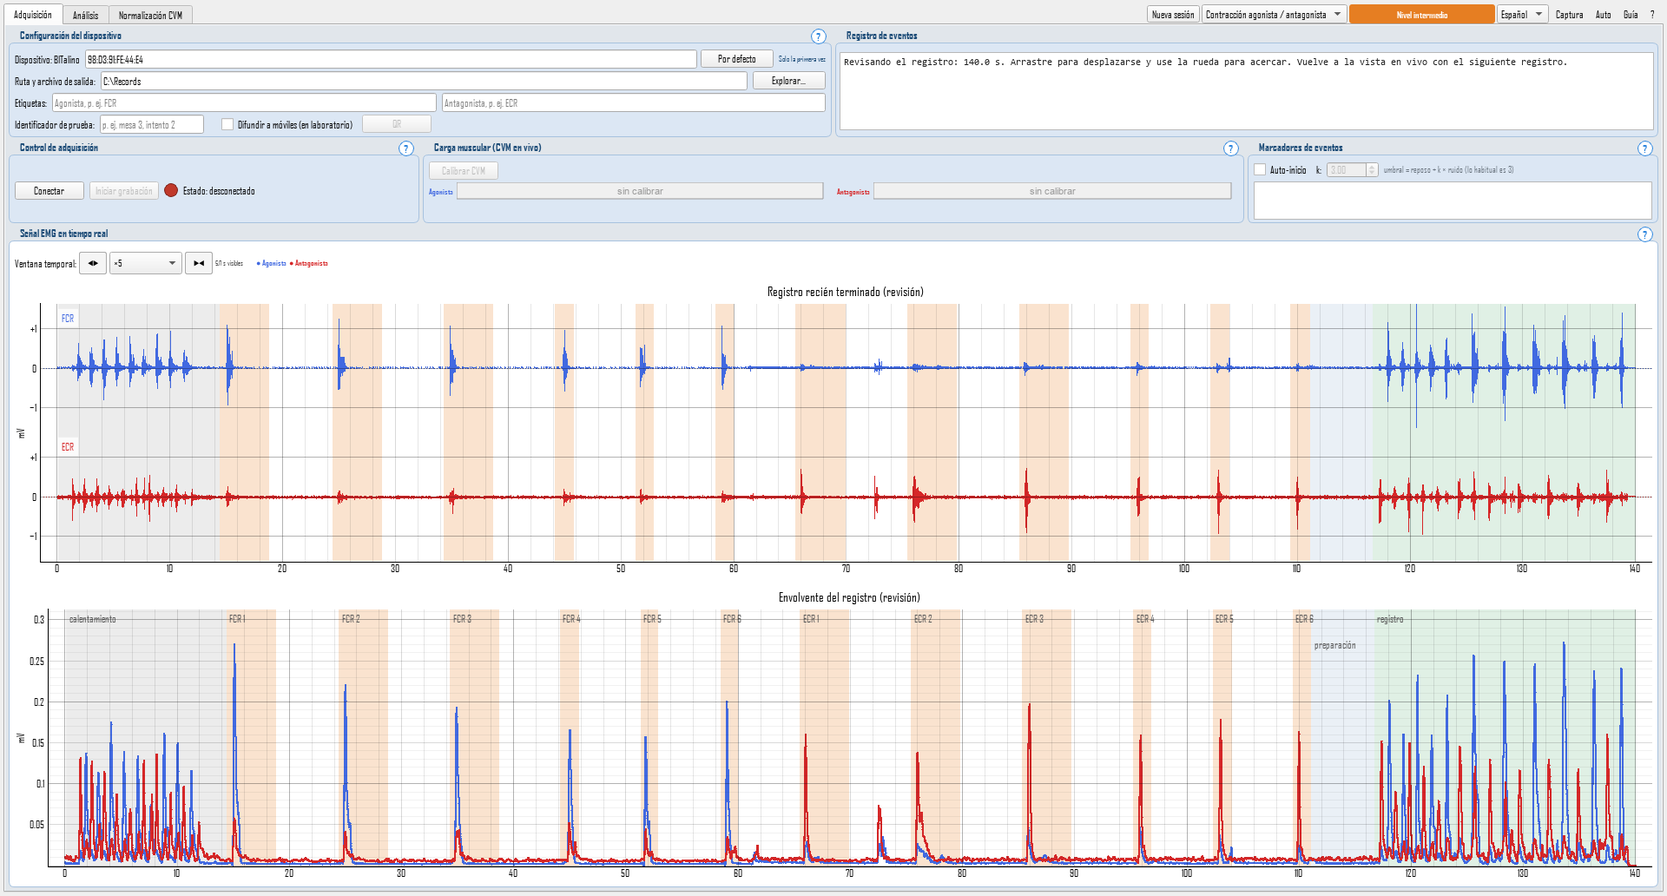
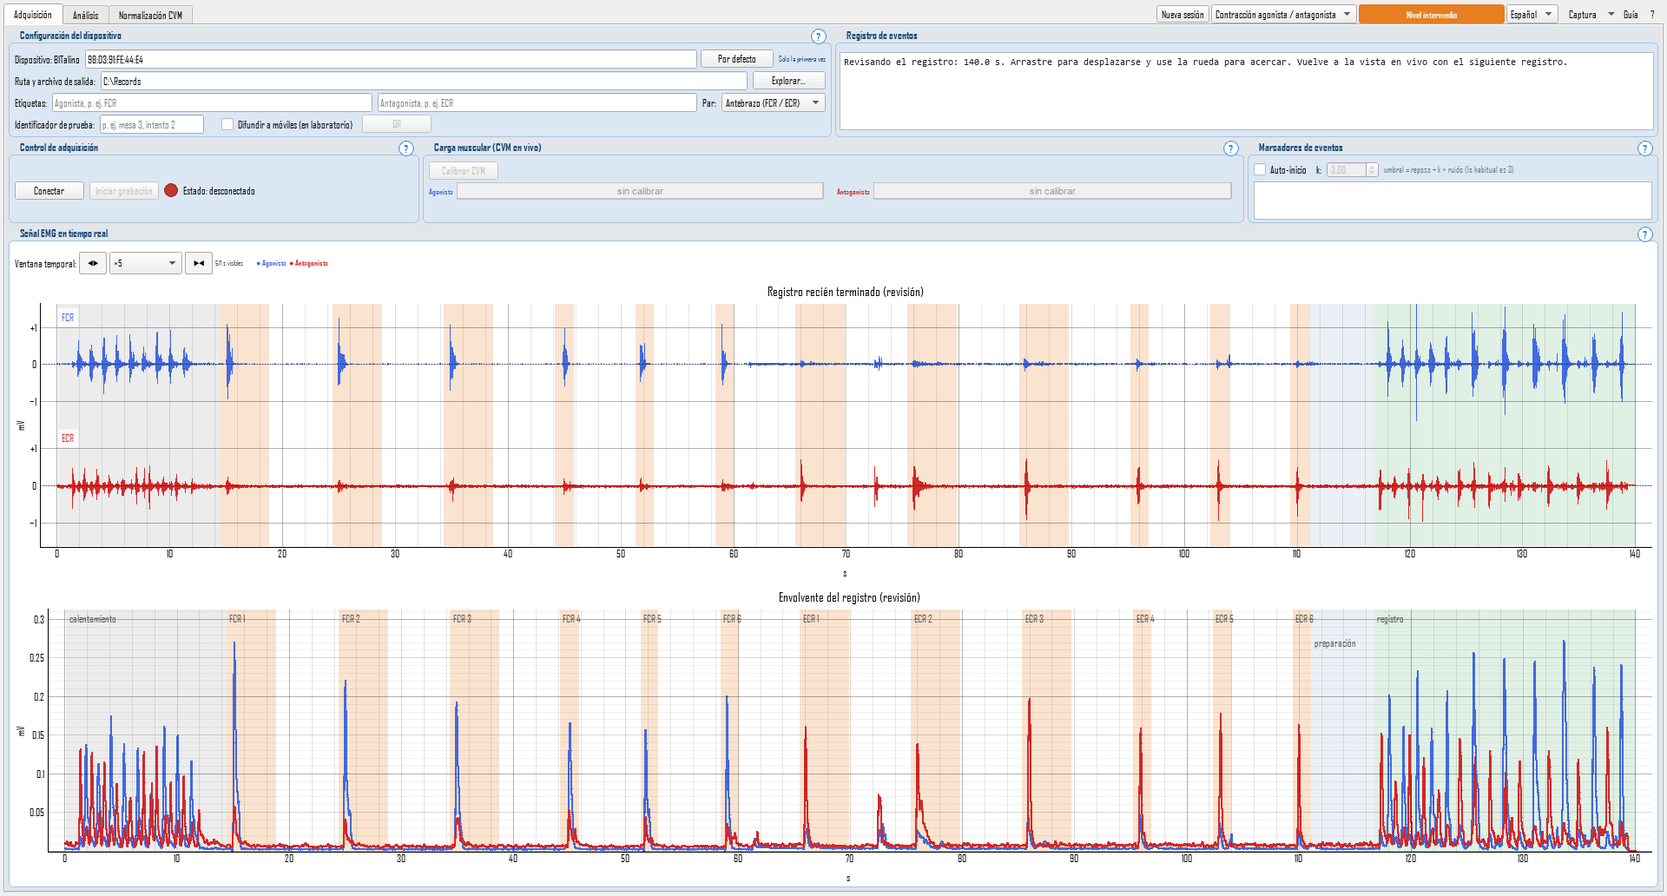
3.7.0: the version DOI, and the report describes it
CITATION.cff carries the version-specific DOI of 3.7.0
(10.5281/zenodo.22976106), with 3.6.0's moved into the history line.

The status report describes 3.7.0:
- the table of section 1: version, DOI, tag commit 34294b4 and 1376
  tests, with 3.6.0 moved to the earlier versions;
- a new section 1.0, what changed from 3.6.0 (the guided session into
  the task, the editor's rows to rest and one per marked lift, the pair,
  the olecranon reference, the connection), and what the material
  regenerated on the tag does and does not change;
- the release now carries the attested Windows executable (sections 1
  and 1.12, with its SHA-256 and what VirusTotal said);
- the pair's flow in section 3, the time to REC start in section 8.4 as
  measured in the 3.7.0 recordings, and limitation 9.

The earlier version sections shift down by one and every
cross-reference with them; the one that sent 3.4.0 to 3.5.0's section
now points at its own. The generated blocks are regenerated, and so is
the internal material, from the tag: the example CSV and PDF change only
in their version, footer and protocol line.

diff --git a/docs/INFORME-estado-para-Sourcebook.md b/docs/INFORME-estado-para-Sourcebook.md
@@ -3,7 +3,7 @@
 Escrito el 5 de septiembre de 2026 sobre `main`, después de publicar la versión
 3.0.0, y actualizado a la **3.1.0**, a la **3.1.1** y a la **3.1.2** tras publicarlas, el 13 de
 septiembre, y a la **3.2.0**, a la **3.3.0** y a la **3.4.0** el 14 de septiembre, y a la
-**3.5.0** el 18 de septiembre y a la **3.6.0** el 19.
+**3.5.0** el 18 de septiembre, a la **3.6.0** el 19 y a la **3.7.0** el 26.
 Responde a `PETICION-a-code-informe-Sourcebook.md` sección por sección.
 
 Los textos de pantalla están **copiados literalmente** de
@@ -22,36 +22,96 @@ Donde algo no está hecho o no lo sé, lo dice.
 | | |
 |---|---|
 | Rama | `main` |
-| **Versión que describe el artículo** | `v3.6.0`, publicada el 19 de septiembre de 2026 |
-| DOI de esa versión | 10.5281/zenodo.22842108 |
+| **Versión que describe el artículo** | `v3.7.0`, publicada el 26 de septiembre de 2026 |
+| DOI de esa versión | 10.5281/zenodo.22976106 |
 | DOI de concepto | 10.5281/zenodo.21002297 |
-| Commit de la etiqueta | `6ab25d8` |
-| Pruebas en la etiqueta | **1217 recogidas, 1216 pasan y 1 se salta** |
-| Versiones anteriores | `v3.5.0` (10.5281/zenodo.22832544, etiqueta en `826c920`, 1205 pruebas) · `v3.4.0` (10.5281/zenodo.22756263, `b7a9183`, 1121 pruebas) · `v3.3.0` (10.5281/zenodo.22750425, `85d6875`, 1093 pruebas) · `v3.2.0` (10.5281/zenodo.22744748, `b5ad8b7`, 1081 pruebas) · `v3.1.2` (10.5281/zenodo.22736393, `8367f1f`, 1078 pruebas) · `v3.1.1` (10.5281/zenodo.22734612, `aeb580d`, 1074 pruebas) · `v3.1.0` (10.5281/zenodo.22733151, `927eeff`, 1064 pruebas) · `v3.0.0` (10.5281/zenodo.22365602, `155fb07`, 940 pruebas) |
+| Commit de la etiqueta | `34294b4` |
+| Pruebas en la etiqueta | **1376 recogidas, 1375 pasan y 1 se salta** |
+| Versiones anteriores | `v3.6.0` (10.5281/zenodo.22842108, etiqueta en `6ab25d8`, 1217 pruebas) · `v3.5.0` (10.5281/zenodo.22832544, etiqueta en `826c920`, 1205 pruebas) · `v3.4.0` (10.5281/zenodo.22756263, `b7a9183`, 1121 pruebas) · `v3.3.0` (10.5281/zenodo.22750425, `85d6875`, 1093 pruebas) · `v3.2.0` (10.5281/zenodo.22744748, `b5ad8b7`, 1081 pruebas) · `v3.1.2` (10.5281/zenodo.22736393, `8367f1f`, 1078 pruebas) · `v3.1.1` (10.5281/zenodo.22734612, `aeb580d`, 1074 pruebas) · `v3.1.0` (10.5281/zenodo.22733151, `927eeff`, 1064 pruebas) · `v3.0.0` (10.5281/zenodo.22365602, `155fb07`, 940 pruebas) |
 | Análisis estático | `ruff check .` limpio |
 
 Los bloques generados de este informe (apartados 4, 6 y 5.1, y el recorrido
 guiado) se leen del **código de `main` en el momento de generarlos**. En esta
-actualización `main` coincide con la etiqueta `v3.6.0` en todo `src/`: lo único
-que va detrás de la etiqueta es el DOI de versión de `CITATION.cff` y este
-informe. Así que lo que dicen los bloques es lo que hace la versión publicada.
-Lo que cambió de la 3.5.0 a la 3.6.0 está en el apartado 1.0, de la 3.4.0 a la
-3.5.0 en el 1.1, de la 3.3.0 a la 3.4.0 en el 1.2, de la 3.2.0 a la 3.3.0 en el
-1.3, de la 3.1.2 a la 3.2.0 en el 1.4, de la 3.1.1 a la 3.1.2 en el 1.5, de la
-3.1.0 a la 3.1.1 en el 1.6, y de la 3.0.0 a la 3.1.0 en el 1.7.
+actualización `main` coincide con la etiqueta `v3.7.0` en todo `src/`: lo único
+que va detrás de la etiqueta es el DOI de versión de `CITATION.cff`, este
+informe y el material regenerado. Así que lo que dicen los bloques es lo que
+hace la versión publicada. Lo que cambió de la 3.6.0 a la 3.7.0 está en el
+apartado 1.0, de la 3.5.0 a la 3.6.0 en el 1.1, de la 3.4.0 a la 3.5.0 en el
+1.2, de la 3.3.0 a la 3.4.0 en el 1.3, de la 3.2.0 a la 3.3.0 en el 1.4, de la
+3.1.2 a la 3.2.0 en el 1.5, de la 3.1.1 a la 3.1.2 en el 1.6, de la 3.1.0 a la
+3.1.1 en el 1.7, y de la 3.0.0 a la 3.1.0 en el 1.8.
 
 La prueba que se salta es `tests/test_gui_mvc_overlay.py:163`: con la
 tipografía de la plataforma de prueba el mensaje mide menos que el suelo del
 propio panel, así que no puede provocar el crecimiento que esa prueba vigila.
 
-La versión etiquetada para el depósito es **3.6.0**, y es la que describe el
-artículo. Las publicaciones de GitHub no llevan ejecutable de Windows ya
-compilado: un ejecutable de PyInstaller sin firmar hace saltar el antivirus al
-descargarlo (un falso positivo conocido), así que la versión se distribuye como
-código fuente (apartado 1.11). El ejecutable se sigue pudiendo compilar desde la
-etiqueta con la receta de `packaging/`.
+La versión etiquetada para el depósito es **3.7.0**, y es la que describe el
+artículo. **Su publicación de GitHub lleva el ejecutable de Windows**,
+`emgteach-v3.7.0-windows-x64.exe`, compilado por GitHub Actions desde la
+etiqueta, con atestación de procedencia y su SHA-256 en las notas (apartado
+1.12). No está firmado. Hasta la 3.6.0 las publicaciones llevaban solo el
+código fuente; la regla se mantenía hasta tener una versión estable, y esa es la
+3.7.0. El registro de Zenodo archiva el código fuente de la etiqueta, no el
+ejecutable.
 
-### 1.0 De la 3.5.0 a la 3.6.0
+### 1.0 De la 3.6.0 a la 3.7.0
+
+La versión del artículo y la de las prácticas de noviembre (PR #70 a #101). Se ensayó de punta a
+punta con la placa simulada y se comprobó en el banco con el BITalino antes de etiquetarla
+(registros COMPROB05b y COMPROB06b, 26 de septiembre). **Para un conjunto dado de fragmentos el
+análisis calcula lo mismo que la 3.6.0.** Cambia el conjunto que propone el editor, y una
+contracción que ninguna marca de carga anunció ya no toma prestada una.
+
+**La sesión guiada sigue hasta la tarea.** Terminaba al medir la referencia. Ahora la guían cuatro
+cuadros —calentamiento, calibración, maniobras libres y presa—, y cada uno lleva una fila de
+casillas que es el mapa de su fase, en el color del músculo en las trazas.
+
+- La primera cuenta atrás de cada músculo dura 7 s (`MVC_READY_PRIMERA_S`) y enseña el pictograma
+  del gesto; las demás, 3 s.
+- Una maniobra libre cuenta cuando el músculo pasa del 10 % de su propia CVM durante 0.30 s
+  (`MANIOBRA_MINIMO_PCT`, `MANIOBRA_MINIMA_S`). La fase pasa sola cuando se han contado seis y el
+  músculo lleva un segundo en reposo, o tras 12 s sin contar nada nuevo
+  (`MANIOBRA_SIN_NOVEDAD_S`). «Hecho — siguiente» queda como salida, no como obligación.
+- La presa es **una** de 8 s (`COACT_HOLD_S`), **apretando una pelota**, con las dos barras de carga
+  dentro de su propio cuadro. Con el puño cerrado en vacío, el extensor se quedó en el 4 % de su
+  referencia en el banco y la presa no dio índice.
+- En cinemática, el estudio fuerza-velocidad lleva el mismo mapa en dos filas: la carga en curso y
+  el experimento entero.
+- El cuadro es opaco y se redimensiona al recibir su mapa.
+
+**El editor de fragmentos.**
+
+- Cada fila propuesta va desde que la envolvente deja el reposo hasta que vuelve a él, con 0.05 s de
+  margen y sin pisar la vecina. El reposo es la línea que pondría la mitad de la sensibilidad, y se
+  dibuja de puntos. En el banco, las filas del par empiezan 0.06–0.17 s antes y acaban hasta 0.36 s
+  después que las del detector, y la coactivación de las tres ventanas sale como salía
+  ampliándolas a mano.
+- En cinemática propone **una fila por levantamiento marcado**. Cada marca de carga da su carga a
+  la contracción que anunció (`force_velocity.marker_owners`), en el editor, en el análisis y en el
+  registro afinado. Lo que el asistente no pidió queda como candidato punteado, y el estudio lo
+  empieza desmarcado.
+
+**La práctica.**
+
+- El par se elige (antebrazo, brazo u otro par) y va a la cabecera EDF.
+- Una sola referencia, en el olécranon, y los dos pares a 5 cm del epicóndilo de su lado.
+- La figura de colocación es la del artículo.
+
+**La conexión.**
+
+- El estado dice «conectando con la placa…» hasta el primer bloque.
+- A los 20 s sin datos (`CONEXION_MAX_S`) la grabación se detiene y un aviso ofrece reintentar, sin
+  congelar la ventana mientras Windows suelta el puerto Bluetooth.
+- Un «Detener» pulsado durante la apertura ya no se pierde.
+
+**El material adjunto** se regeneró en la etiqueta y **no cambia ninguna cifra**. Cambian las
+capturas enteras de las figuras 3a y 3b y la de adquisición: el selector del par, los ejes en
+segundos y «Screenshot ▾» donde antes estaban «Screenshot» y «Auto». En las demás capturas
+completas solo cambia esa franja de la barra, y los recortes de las figuras 4 y 7 salen idénticos.
+En el ejemplo de CSV y de PDF solo cambian la versión, el pie y la línea «Protocol», que ahora se
+lee en el idioma del lector.
+
+### 1.1 De la 3.5.0 a la 3.6.0
 
 Una versión menor con una sola cosa dentro (PR #67): **la placa simulada obedece a la
 calibración**. Ningún cálculo cambia y ningún registro hecho con la placa se lee distinto; lo
@@ -98,7 +158,7 @@ versión publicada.
 captura**: esta versión no toca ni un texto de pantalla. Solo se mueven el pie del PDF de
 ejemplo y la línea de versión del CSV.
 
-### 1.1 De la 3.4.0 a la 3.5.0
+### 1.2 De la 3.4.0 a la 3.5.0
 
 Una versión menor (PR #45 a #62). Añade lo que una práctica necesita alrededor
 de la medida y repara los dos documentos que se lleva el alumnado. **Las
@@ -204,7 +264,7 @@ registro sin recortar sigue pasando; y el registro de cinemática vuelve a dar
 contracciones, retraso electromecánico mediano de 42 ms y máximo de la tarea del
 123 % CVM.
 
-### 1.2 De la 3.3.0 a la 3.4.0
+### 1.3 De la 3.3.0 a la 3.4.0
 
 Una versión menor (PR #39 a #43): cambia lo que enseña la pestaña de análisis
 y cómo numera sus paneles. Ningún cálculo cambia.
@@ -283,7 +343,7 @@ Los paneles dibujan lo que calcula el análisis; ninguno calcula nada. Donde sí
 cambian las figuras del artículo es en las capturas de la pestaña de análisis
 (apartado 10).
 
-### 1.3 De la 3.2.0 a la 3.3.0
+### 1.4 De la 3.2.0 a la 3.3.0
 
 Una versión menor (PR #35 a #37): una cifra que enseña el programa puede
 cambiar, y un panel se dibuja de otra manera. Ningún otro cálculo cambia.
@@ -319,11 +379,11 @@ cambiar, y un panel se dibuja de otra manera. Ningún otro cálculo cambia.
 
 **Lo que el §5 del artículo cita no cambia con la 3.3.0**: las referencias,
 los máximos de tarea, la tabla A, la figura 6, «lo que no hay que hacer», la
-sensibilidad y el borde son los de la tabla del apartado 1.3, medidos sobre la
+sensibilidad y el borde son los de la tabla del apartado 1.4, medidos sobre la
 etiqueta `v3.2.0` y comprobados sobre la `v3.3.0`. Ninguna figura del artículo
 enseña el panel 3.
 
-### 1.4 De la 3.1.2 a la 3.2.0
+### 1.5 De la 3.1.2 a la 3.2.0
 
 Una versión menor, no un parche, porque cambia los números que el programa
 produce para la misma señal (PR #29 a #32). **Un registro reanalizado con la
@@ -394,7 +454,7 @@ registro de las tres maniobras (`tests/test_coactivation_sin_recortar.py`)
 pasa con los valores nuevos, y el comando de la figura 6 da la figura
 regenerada que hay en `docs/articulo-advances/` (apartado 10).
 
-### 1.5 De la 3.1.1 a la 3.1.2
+### 1.6 De la 3.1.1 a la 3.1.2
 
 Un parche de lo que la calibración pide y de cómo se describe (PR #24 a #26).
 No cambia ningún cálculo, umbral ni valor por defecto.
@@ -412,7 +472,7 @@ No cambia ningún cálculo, umbral ni valor por defecto.
   máximo de la media móvil de 0.2 s de la envolvente, tal cual, sin restar
   reposo, y la mejor de las repeticiones. El manual decía que se restaba el
   reposo de la ventana.
-- **Las publicaciones llevan solo el código fuente** (apartado 1.11).
+- **Las publicaciones llevan solo el código fuente** (apartado 1.12).
 
 Ninguna figura del artículo enseña los textos de la calibración, y las cifras
 del apartado 8 no dependen de estos cambios. Comprobado sobre la etiqueta: la
@@ -420,7 +480,7 @@ prueba de aceptación que fija las cifras del registro de las tres maniobras
 (`tests/test_coactivation_sin_recortar.py`) pasa, y el comando de la figura 6
 da la misma figura, píxel a píxel.
 
-### 1.6 De la 3.1.0 a la 3.1.1
+### 1.7 De la 3.1.0 a la 3.1.1
 
 Un parche de una sola medida (PR #21). **La coactivación de una ventana con
 nombre se lee sobre la fase de registro sin recortar.** Hasta la 3.1.0, elegir
@@ -459,7 +519,7 @@ fragmentos concatenados (apartado 9, punto 11). El EDF afinado es una
 concatenación en disco y se lee como tal. Ninguna figura ni ningún control de
 la interfaz cambia.
 
-### 1.7 De la 3.0.0 a la 3.1.0
+### 1.8 De la 3.0.0 a la 3.1.0
 
 Son **39 commits** (29 sin contar las fusiones). La 3.1.0 no cambia el formato
 del archivo ni los cálculos: los módulos que calculan (`coactivation.py`,
@@ -519,7 +579,7 @@ puede mover resultados es la propuesta de filas del editor de fragmentos**:
   constantes del asistente, y las guías ya no hablan de esfuerzos mantenidos
   de cuatro segundos.
 
-### 1.8 Lo que trajo la 3.0.0 (desde el commit `7234b02`)
+### 1.9 Lo que trajo la 3.0.0 (desde el commit `7234b02`)
 
 Son **97 commits**. Lo que cambió de cara al artículo:
 
@@ -550,7 +610,7 @@ Son **97 commits**. Lo que cambió de cara al artículo:
   la excursión completa es ±1.635 mV, no ±1.65 mV. Nada expresado como
   cociente cambia.
 
-### 1.9 Dependencias
+### 1.10 Dependencias
 
 Declaradas en `pyproject.toml` y comprobadas en el entorno con el que se
 generó este informe:
@@ -569,14 +629,14 @@ generó este informe:
 | reportlab | `>=4.0` | 4.5.1 |
 | segno | `>=1.6` | 1.6.6 |
 
-### 1.10 Plataformas probadas
+### 1.11 Plataformas probadas
 
 La integración continua ejecuta la suite en **Ubuntu y Windows**, con
 **Python 3.10, 3.11 y 3.12**: seis combinaciones, todas en verde para
 `v3.1.2`. macOS no se prueba de forma automática. El hardware se ha probado
 solo en Windows 11.
 
-### 1.11 Instalación y arranque
+### 1.12 Instalación y arranque
 
 Desde el código fuente:
 
@@ -587,9 +647,21 @@ pip install -e ".[dev]"
 emgteach
 ```
 
-No hay ejecutable de Windows adjunto a la publicación (apartado 1). Quien lo
-necesite lo compila desde la etiqueta con `packaging/emgteach.spec`
-(instrucciones en `packaging/README.md`). El ejecutable acepta `--selftest`,
+Desde la 3.7.0, la publicación lleva el ejecutable de Windows,
+`emgteach-v3.7.0-windows-x64.exe`:
+
+- **De dónde sale.** Lo compila GitHub Actions desde la etiqueta
+  (`.github/workflows/build-windows-exe.yml`), comprobando que dice la versión
+  de la etiqueta.
+- **Cómo se comprueba.** Lleva atestación de procedencia, que se verifica con
+  `gh attestation verify emgteach-v3.7.0-windows-x64.exe --repo aagisto-maker/emgteach`.
+  Su SHA-256 está en las notas de la publicación:
[1 lines of base64/hex data omitted]
+- **Antivirus.** No está firmado. En VirusTotal, antes de publicar, lo
+  marcaron 3 de 67 motores y Microsoft Defender no.
+
+Quien prefiera compilarlo lo hace desde la etiqueta con
+`packaging/emgteach.spec` (instrucciones en `packaging/README.md`). El ejecutable acepta `--selftest`,
 que construye la interfaz sin pantalla y escribe el resultado en
 `emgteach_selftest.log`, a su lado.
 
@@ -710,8 +782,9 @@ antagonista» y `Muscle kinematics` / «Cinemática muscular».
 4. `Calibrate MVC` / «Calibrar CVM», en la caja `Muscle load (live MVC)` /
    «Carga muscular (CVM en vivo)», lanza el asistente. Es un cuadro oscuro
    flotante sobre las gráficas, con esta secuencia por músculo: calentamiento
-   de 10 s, y luego tres veces la pareja cuenta atrás (3 s) y esfuerzo (1.5 s),
-   con 2 s de descanso. Los textos son `Warm up first` / «Caliente primero»,
+   de 10 s, y luego tres veces la pareja cuenta atrás (3 s; la primera de cada
+   músculo, 7 s, con el pictograma del gesto) y esfuerzo (1.5 s), con 2 s de
+   descanso. Los textos son `Warm up first` / «Caliente primero»,
    `Get ready — {label}{rep}` / «Prepárese — {label}{rep}» y `Maximum, short
    and hard — {label}{rep}` / «¡Máximo, breve y fuerte! — {label}{rep}», y al
    acabar `MVC ready` / «CVM listo». Mientras corre aparece `Cancel guide
@@ -760,17 +833,22 @@ antagonista» y `Muscle kinematics` / «Cinemática muscular».
 
 ### 3.2 Contracción agonista / antagonista
 
-Igual que la anterior salvo en cinco puntos:
+Igual que la anterior salvo en estos puntos:
 
 - Hay **dos campos de etiqueta**, uno por músculo, y dos carriles de señal,
-  azul el canal 1 y rojo el canal 2.
+  azul el canal 1 y rojo el canal 2, y un desplegable `Pair:` / «Par:» para el
+  par de músculos.
 - **La calibración es obligatoria y la lanza el propio botón de grabar**: no
   hay que acordarse de pulsar «Calibrar CVM». El flujo es calibración →
   preparación (5 s) → registro, sin detener la adquisición.
 - El asistente calibra **primero un músculo y después el otro**.
+- **La sesión guiada sigue hasta la tarea** (apartado 1.0): seis maniobras
+  libres de cada músculo con su fila de casillas, que pasan solas, y una presa
+  de 8 s apretando una pelota, con las barras de carga dentro del cuadro.
 - El editor de fragmentos abre con **k = 4.4** en vez de 3.0, y espera
   **seis flexiones, seis extensiones y una presa**; lo esperado se puede
-  cambiar si se repite una serie.
+  cambiar si se repite una serie. Cada fila propuesta abarca la contracción
+  entera, hasta la línea de puntos «reposo».
 - En Análisis aparece la caja `Co-activation` / «Coactivación» con una fila por
   ventana marcada, y el panel 9 compara las dos envolventes en % CVM.
 
@@ -989,7 +1067,7 @@ coactivación que imprime el informe.
 punto decimal en inglés, punto y coma de separador y coma decimal en español, que
 es lo que esperan Excel o LibreOffice configurados en español —con la otra
 combinación abren el archivo entero en una sola columna y leen 0.05 como texto—.
-Es la excepción declarada a la marca decimal única de la 3.5.0 (apartado 1.1), y
+Es la excepción declarada a la marca decimal única de la 3.5.0 (apartado 1.2), y
 la primera línea del archivo dice cuál de las dos parejas lleva.
 
 ### 5.6 Índice de coactivación
@@ -1396,9 +1474,9 @@ adjunto está en `docs/informe-sourcebook/` y lo produce
 `tools/informe_material.py`.
 
 **Todas las cifras de este apartado están medidas con la 3.2.0** sobre su
-etiqueta y **no cambian con la 3.3.0 ni con la 3.4.0** (apartados 1.3 y 1.2);
+etiqueta y **no cambian con la 3.3.0 ni con la 3.4.0** (apartados 1.4 y 1.3);
 las que cambiaron respecto de la 3.1.2, y cuánto, están en la tabla del
-apartado 1.4. Las del 8.3 no pasan por la coactivación.
+apartado 1.5. Las del 8.3 no pasan por la coactivación.
 
 ### 8.1 Registro de ejemplo: el par flexor / extensor
 
@@ -1454,8 +1532,8 @@ porcentajes de abajo significan lo que dicen.
 | Presa | 88.0–97.0 s | **79 %** (78.6) | 11.4 / 7.7 % CVM |
 
 Medido con la 3.2.0: cada maniobra es una máscara sobre la fase de registro sin
-recortar, el reposo que se resta es el de la fase entera (apartados 1.6 y
-5.6) y la referencia es el pico de la envolvente (apartado 1.4). Con la 3.1.2
+recortar, el reposo que se resta es el de la fase entera (apartados 1.7 y
+5.6) y la referencia es el pico de la envolvente (apartado 1.5). Con la 3.1.2
 —referencia de 0.2 s y suelo del 5 %— la tabla era 28.3 / no reportada / 75.7 %
 con medias 14.1 / 5.8 · 4.2 / 6.2 · 14.5 / 9.1; con el pico y el suelo del 5 %
 la flexión se quedaba sin número (el extensor, en 4.9 %), y es la razón del
@@ -1516,7 +1594,7 @@ para no medir. Para esta práctica, la ventana es la maniobra entera.
    con su curso temporal, reposos incluidos; concatenar las contracciones mide
    otra cosa. **Las cifras publicables son las del registro sin recortar.**
    Desde la 3.1.1, elegir los fragmentos en la pestaña sobre el original ya
-   no concatena para la coactivación (apartado 1.6); el aviso vale para el
+   no concatena para la coactivación (apartado 1.7); el aviso vale para el
    archivo afinado.
 2. **El borde de la ventana: el reposo que entra ya no mueve el índice.** Con
    la 3.0.0, estrechar la presa 0.8 s por delante la llevaba de 76 % a 70 %,
@@ -1574,9 +1652,10 @@ la tarea, 123 % CVM.
   dos pares de electrodos y la referencia, encender la placa, conectar y la
   comprobación de calidad. **Fuera el emparejamiento Bluetooth**, que es de una
   vez por ordenador y no de cada sesión. Y **fuera lo que dura el registro**,
-  que no se cronometra porque ya se sabe: 10 s de calentamiento, 17.5 del
-  primer músculo, 19.5 del segundo y 5 de preparación, unos 52 s hasta
-  `REC start` más la tarea. Eso es una constante del programa —la secuencia la
+  que no se cronometra porque ya se sabe: con la 3.7.0, `REC start` llega a
+  los 66.2 s en los registros del par (ENSAYO01b y COMPROB05b) —calentamiento,
+  las dos calibraciones con la primera cuenta atrás de 7 s y la preparación—,
+  más la tarea guiada. Eso es una constante del programa —la secuencia la
   lleva él y no la persona—, sale del código y está en el §4, y sale idéntica
   para un docente y para un alumno.
 
@@ -1634,22 +1713,24 @@ la tarea, 123 % CVM.
 9. Del §13 de la especificación sigue vigente el aviso de que **este era el
    último cambio de arquitectura antes de la publicación**. La 3.1.0 lo
    respeta: cambia el manejo en el puesto y no el formato del archivo ni los
-   cálculos (apartado 1.6). La 3.1.1 cambia una sola medida, la coactivación
-   con fragmentos elegidos (apartado 1.5), y la 3.1.2 solo lo que la
-   calibración pide y cómo se describe (apartado 1.4). La 3.2.0 cambia el
+   cálculos (apartado 1.7). La 3.1.1 cambia una sola medida, la coactivación
+   con fragmentos elegidos (apartado 1.6), y la 3.1.2 solo lo que la
+   calibración pide y cómo se describe (apartado 1.5). La 3.2.0 cambia el
    estadístico de la referencia, el suelo del índice y la MDF de los
-   segmentos (apartado 1.3); la 3.3.0 lee el máximo de la tarea sobre la fase
-   entera y dibuja el panel 3 en relativo (apartado 1.2); la 3.4.0 cambia lo
+   segmentos (apartado 1.4); la 3.3.0 lee el máximo de la tarea sobre la fase
+   entera y dibuja el panel 3 en relativo (apartado 1.3); la 3.4.0 cambia lo
    que enseña la pestaña de análisis y cómo numera sus paneles, sin tocar
-   ningún cálculo (apartado 1.1). La 3.5.0 añade lo que rodea a la medida —la
+   ningún cálculo (apartado 1.3). La 3.5.0 añade lo que rodea a la medida —la
    placa simulada, el diagnóstico, el registro de eventos y la recuperación—,
    repara el informe y el CSV y deja una sola marca decimal, y las tres cosas
    que mueven números son faltas que se reparan, declaradas una por una
-   (apartado 1.1). La 3.6.0 no cambia ningún cálculo: hace que la placa
+   (apartado 1.2). La 3.6.0 no cambia ningún cálculo: hace que la placa
    simulada obedezca a la calibración, de modo que un ensayo sin hardware
-   enseñe lo que enseña la práctica (apartado 1.0); es la que describe el
-   artículo, y lo que venga después irá a versiones posteriores sin cambiar
-   lo que describe.
+   enseñe lo que enseña la práctica (apartado 1.1). La 3.7.0 lleva la sesión
+   guiada hasta la tarea y propone las filas del editor hasta el reposo, sin
+   cambiar ningún cálculo para un conjunto dado de fragmentos (apartado 1.0);
+   es la que describe el artículo, y lo que venga después irá a versiones
+   posteriores sin cambiar lo que describe.
 10. **La k = 4.4 del par es empírica**: es el valor que dio una fila por
     maniobra en los registros en que se probó. Con otra piel, otro montaje u
     otra forma de hacer las maniobras puede proponer de más o de menos; por
